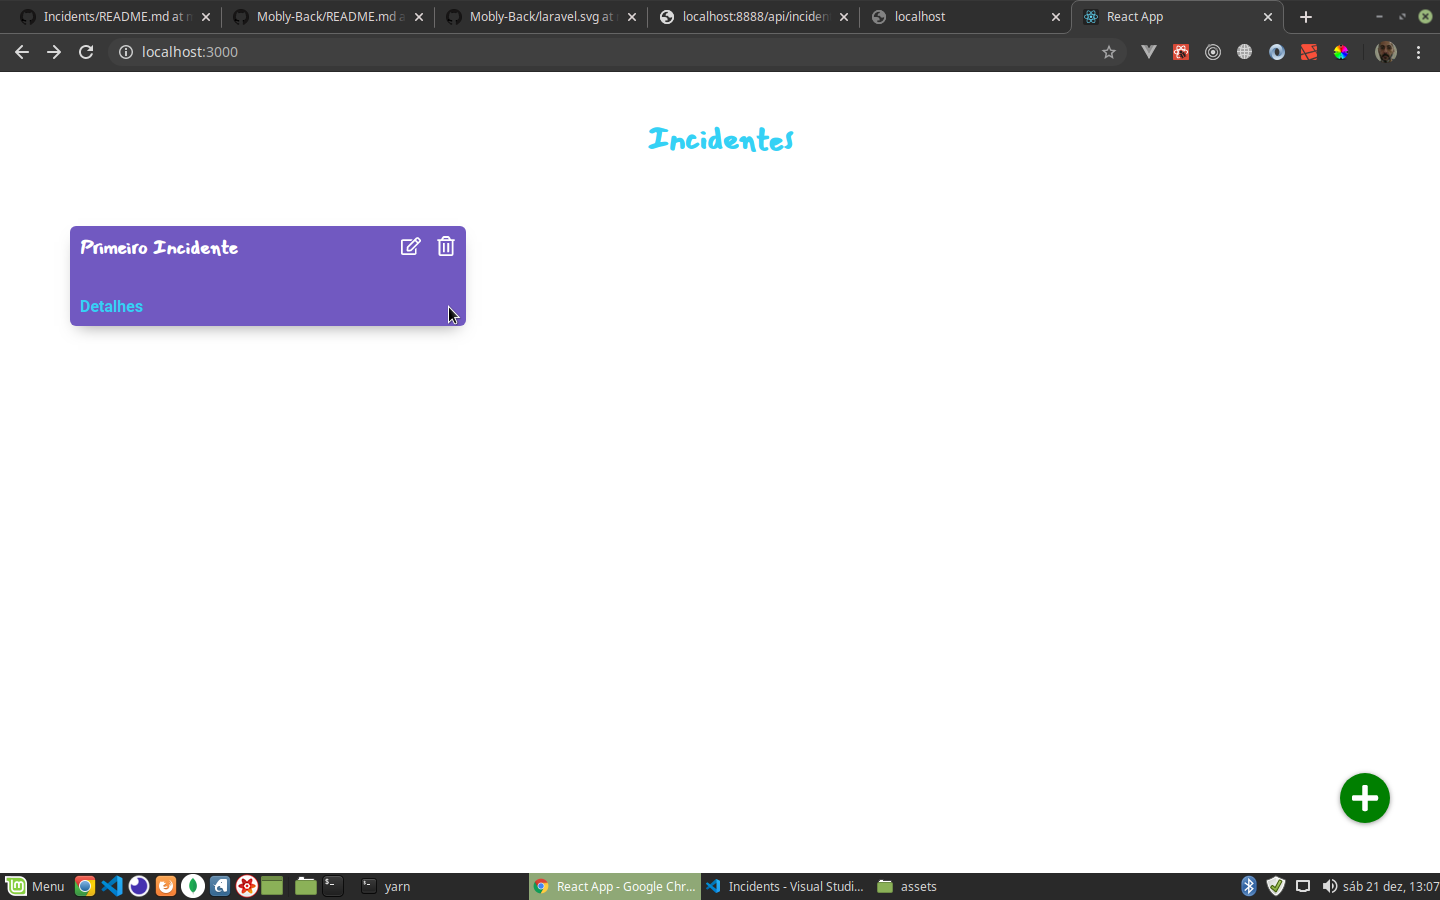
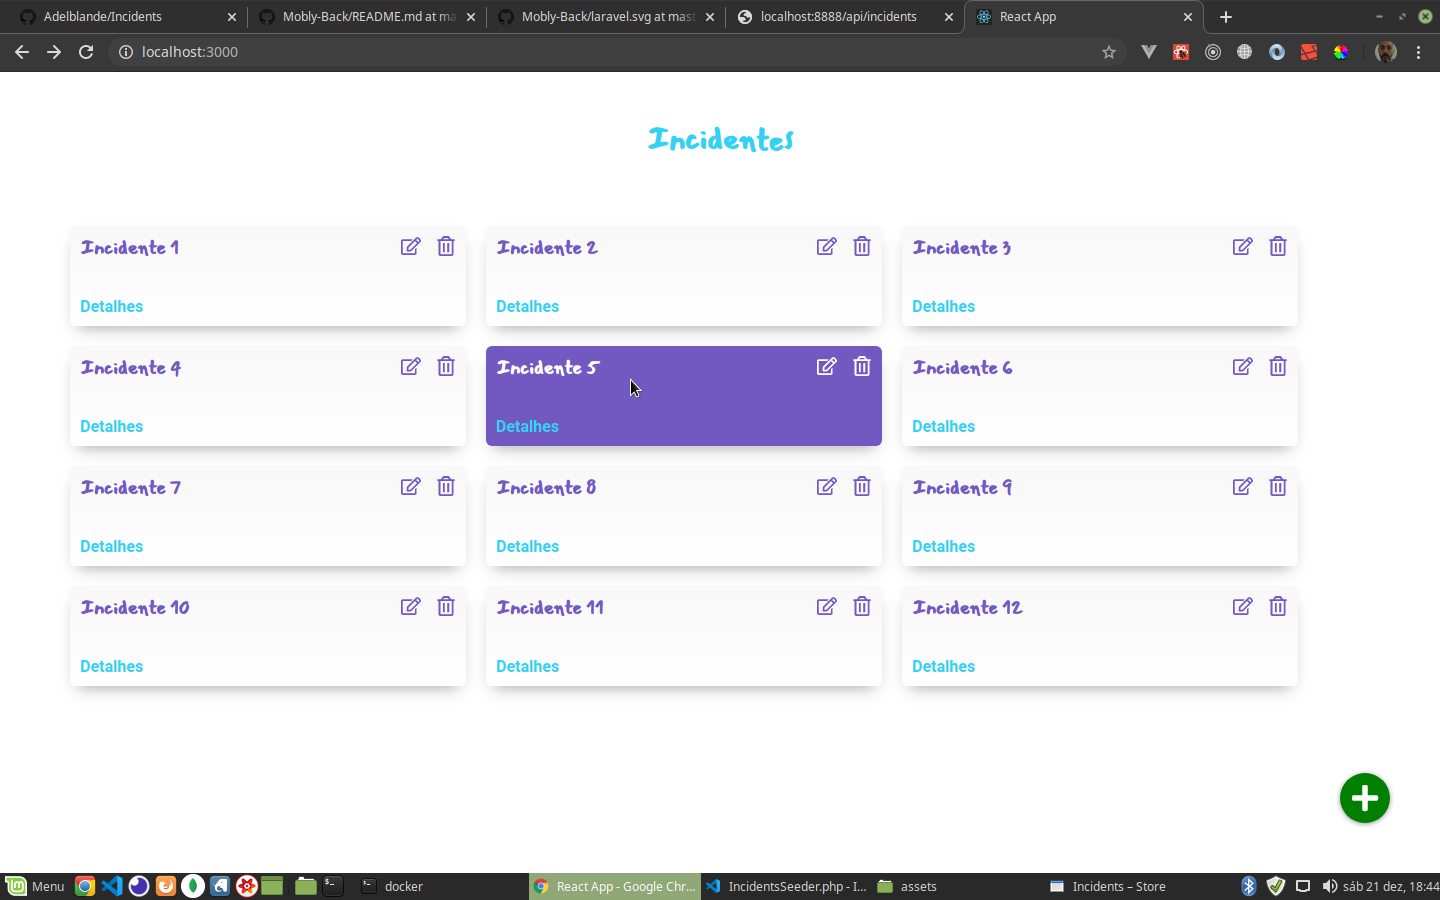
Seeder para popular Incidents

diff --git a/src/database/seeds/IncidentsSeeder.php b/src/database/seeds/IncidentsSeeder.php
@@ -1,0 +1,24 @@
+<?php
+
+use Illuminate\Database\Seeder;
+use App\Incidents;
+
+class IncidentsSeeder extends Seeder
+{
+    /**
+     * Run the database seeds.
+     *
+     * @return void
+     */
+    public function run()
+    {
+        for($x = 1; $x < 13; $x++) {
+            Incidents::create([
+                "title" => "Incidente $x",
+                "description" => "Descrição do Incidente $x",
+                "criticality" => "Baixa",
+                "type_incident_id" => 4
+            ]);
+        }
+    }
+}

diff --git a/src/database/seeds/DatabaseSeeder.php b/src/database/seeds/DatabaseSeeder.php
@@ -13,5 +13,6 @@ class DatabaseSeeder extends Seeder
     {
         // $this->call(UsersTableSeeder::class);
         $this->call(TypeIncidentsSeeder::class);
+        $this->call(IncidentsSeeder::class);
     }
 }

diff --git a/README.md b/README.md
@@ -31,7 +31,7 @@ $ git clone https://github.com/Adelblande/Incidents.git
 # Clone o repositório do Front
 $ git clone https://github.com/Adelblande/incidents-front.git
 
-# Navegue até a pasta Mobly-Back do projeto clonado
+# Navegue até a pasta Incidents do projeto clonado
 $ cd Incidents
 
 # Execute o comando para subir os containers
@@ -76,7 +76,7 @@ $ yarn start
 Espero que à essa altura já esteja tudo funcionando perfeitamente,
 Vc vera a tela inicial no seu navegador como na imagem abaixo.
 
-<img alt="Tela inicial" src="https://github.com/Adelblande/Incidents/blob/master/assets/Tela_inicial.png" width="250">
+<img alt="Tela inicial" src="https://github.com/Adelblande/Incidents/blob/master/assets/Tela_inicial.png" width="900">
 
 Qualquer dúvida só me ligar.
 
